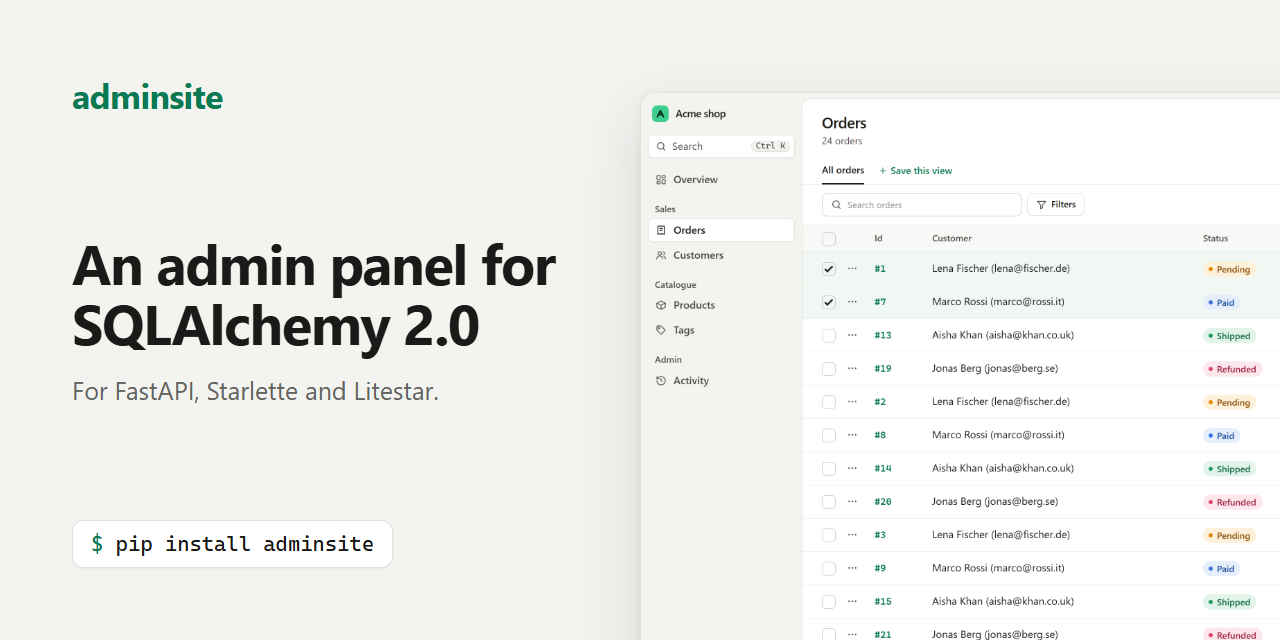
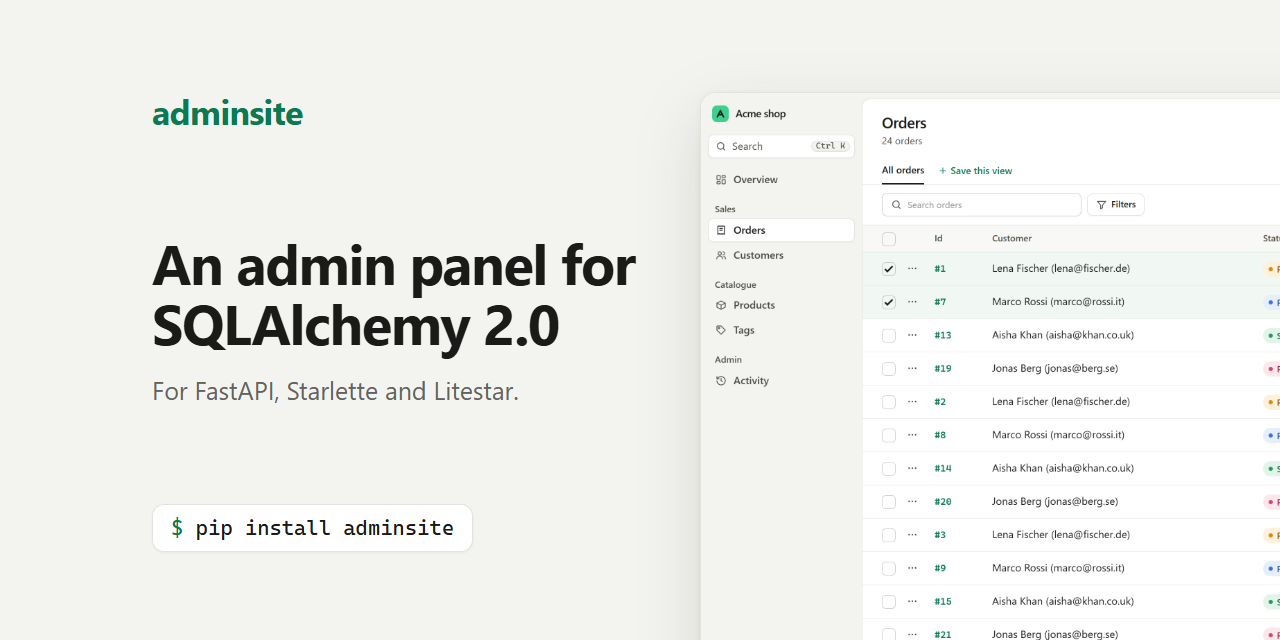
docs: the social preview keeps its words inside GitHub's safe area and Reddit's crop

diff --git a/frontend/social-preview.html b/frontend/social-preview.html
@@ -43,11 +43,12 @@
     background: var(--ground);
   }
 
-  /* Everything that reads stays 72px inside the edges, since some sites crop
-     the card a little. */
+  /* GitHub's template keeps everything that reads 80px inside the edges. Reddit
+     and Telegram show the card at 16:9 and cut another 71px off each side, so
+     the words start 152px from the left. */
   .words {
     position: absolute;
-    inset: 72px auto 72px 72px;
+    inset: 88px auto 88px 152px;
     width: 500px;
     display: flex;
     flex-direction: column;
@@ -92,7 +93,7 @@
   /* The demo's orders list, running off the right and bottom edges. */
   .shot {
     position: absolute;
-    left: 640px;
+    left: 700px;
     top: 92px;
     width: 1000px;
     border: 1px solid var(--line);
